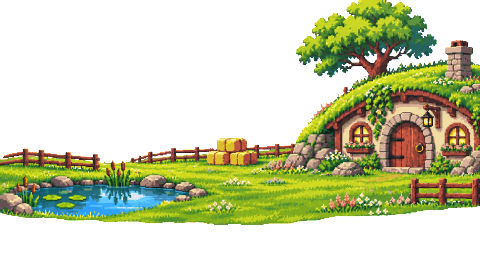
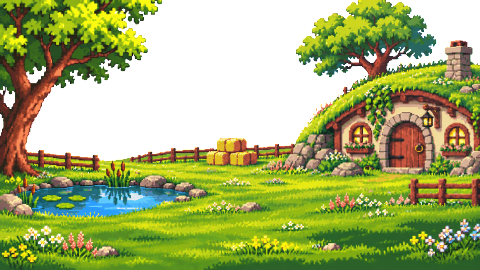
Yard: one continuous meadow behind, and seamless grass growing up in front
The Yard's cut was wrong: the big tree stands in the meadow behind the
pond, but sat in the near layer and slid over it, and the middle meadow's
edge showed over the far one. Now the far layer is just the sky,
mountains and distant hills, the middle layer is the whole meadow as one
piece with the tree, fences, pond, hay and house on it, and there is no
near layer. Instead a seamless strip of grass and wildflowers (its right
end joined under its left end so copies meet without a seam) is drawn in
front of everything along the bottom of the screen, covering the stone
ground band with its tallest tufts just reaching the animals' feet.

diff --git a/index.html b/index.html
@@ -61,13 +61,13 @@ const VFX_SPR = ['star', 'fireball', 'flame', 'spark', 'meteor', 'sun', 'moon', 
 const BG_LAYERED = ['hall', 'cave', 'crypt', 'forge', 'hollow', 'sanctum', 'thornwood', 'glade', 'lake', 'camp', 'boss', 'yard'];
 // how far each layer travels (far, mid, near): the near layer moves like the old single backdrop; a background whose middle pieces
 // sit close to its back wall (banners on a wall) gives them a number close to the far one, so they don't slide across it
-const BG_DEPTH = { default: [0.35, 0.65, 1], hall: [0.35, 0.42, 1], crypt: [0.35, 0.55, 1], boss: [0.35, 0.45, 1] };
+const BG_DEPTH = { default: [0.35, 0.65, 1], hall: [0.35, 0.42, 1], crypt: [0.35, 0.55, 1], boss: [0.35, 0.45, 1], yard: [0.35, 1, 1] };   // the Yard: sky and hills behind, the whole meadow as one piece
 const ART_FILES = {
   vfx: VFX_SPR,
   items: ['pet_fox', 'pet_owl', 'pet_ferret', 'pet_boar', 'pet_toad', 'shortbow', 'greatsword', 'warhammer', 'towershield', 'torc', 'banner', 'breastplate', 'bgauntlet', 'giantbelt', 'lionheart', 'dragonslayer', 'longbow', 'bodkin', 'twinquiver', 'frostarrows', 'blastarrows', 'hawkeye', 'bracer', 'rangercloak', 'fletching', 'starfall', 'venom', 'kris', 'shadowcloak', 'knives', 'lockpicks', 'duelist', 'shadowstep', 'bloodring', 'rmask', 'nightfang', 'barbwhip', 'alphahorn', 'collar', 'totem', 'poultice', 'falconglove', 'whistle', 'wolfcloak', 'bearclaw', 'crown', 'pet_dog', 'pet_catgray', 'pet_catcalico', 'pet_cockatiel', 'pet_dragon', 'wings', 'phoenix', 'treats', 'hourglass', 'lantern', 'dagger', 'arrows', 'sword', 'axe', 'spear', 'bow', 'gloves', 'shield', 'helm', 'chain', 'spiked', 'boots', 'potion', 'bomb', 'bread', 'heart', 'whetstone', 'charm', 'fang', 'clover', 'spikes', 'chewbone', 'clawfile', 'vest', 'blanket', 'incubator', 'harness', 'bell', 'huntmark', 'squeaky', 'catnip', 'cuttlebone', 'heatrock', 'bogmoss', 'truffle', 'nightshade', 'hexcharm', 'healbell', 'dragonheart', 'alphafang', 'salve', 'herb', 'salts', 'brew', 'smoke', 'net', 'egg_cockatiel', 'egg_owl', 'egg_toad', 'egg_dragon', 'egg_elder', 'horseshoe', 'glownectar', 'embertotem', 'boneflute', 'serpenttorc', 'antlercrown', 'saddlebag', 'buckler', 'windchimes', 'huntinghorn', 'emberring', 'wishbone', 'egg_phoenix', 'egg_salamander', 'egg_tortoise', 'egg_moth', 'egg_fairydragon', 'egg_viper', 'egg_sunday'],
   chars: ['hero', 'slime', 'bat', 'skeleton', 'archer', 'ghost', 'brute', 'boss'].flatMap(n => [n + '_idle', n + '_attack']),
   props: ['friend_post', 'hub_banner_warrior', 'hub_banner_archer', 'hub_banner_rogue', 'hub_banner_beastmaster', 'hub_mirror', 'hub_board', 'hub_petbed', 'barrier', 'cage', 'cage_open', 'plant_bloodberry', 'plant_ember', 'plant_stone', 'plant_swift', 'plant_catnip', 'plant_mandrake', 'chest_secret', 'spikes', 'crumble', 'vent', 'chest_gold', 'chest_closed', 'chest_open', 'campfire', 'torch', 'gate', 'ledge', 'tombstone', 'arrow', 'mushrooms', 'candle', 'bones', 'chain', 'thorns', 'shroom', 'vine', 'door_wardrobe', 'door_records', 'door_den', 'door_out', 'nest', 'pedestal', 'trophy_shelf', 'dye_rack', 'sparkle_0', 'sparkle_1', 'sparkle_2', 'sparkle_3', 'sanct_house'],
-  bg: ['hall', 'cave', 'crypt', 'camp', 'boss', 'forge', 'hollow', 'sanctum', 'hub', 'thornwood', 'glade', 'lake', 'yard', 'wardrobe', 'records'].concat(BG_LAYERED.flatMap(k => [k + '_far', k + '_mid', k + '_near'])),
+  bg: ['hall', 'cave', 'crypt', 'camp', 'boss', 'forge', 'hollow', 'sanctum', 'hub', 'thornwood', 'glade', 'lake', 'yard', 'wardrobe', 'records'].concat(BG_LAYERED.flatMap(k => [k + '_far', k + '_mid', k + '_near'])).concat(['yard_grass']),
   anim: Object.keys(window.ANIMS || {}).concat(window.LOOKS ? window.LOOKS.masks.map(n => n + '_skin').concat(Object.entries(window.LOOKS.hair).flatMap(([h, v]) => Object.keys(v).map(w => 'hair_' + h + '_' + w))) : []),   // + skin masks and hair pieces (Wardrobe)
   ui: ['panel_leather', 'panel_parch', 'btn', 'btn_hover', 'btn_off', 'slot', 'banner', 'seal'],
   tiles: ['hall', 'cave', 'crypt', 'boss', 'camp', 'forge', 'hollow', 'sanctum', 'thornwood', 'glade', 'lake'].flatMap(t => [t + '_block', t + '_top', t + '_ledge']),
@@ -3114,6 +3114,13 @@ function drawParallax(R) {
     });
   } else ctx.drawImage(img, 0, 0, img.width, sh, Math.round(-(bw - W) * fx), Math.round(-(bh - H) * fy), bw, bh);
   ctx.fillStyle = `rgba(0,0,0,${R.theme.dim ?? 0.22})`; ctx.fillRect(0, 0, W, H); // push the backdrop back so the terrain reads
+}
+// the Yard's foreground grass: one seamless strip, repeated, drawn in front of everything and rising from the bottom of
+// the screen; it slides a little faster than the ground, as grass right in front of you would
+function drawFrontGrass(camX) {
+  const img = art('bg/yard_grass'); if (!img) return;
+  const s = 2, w = img.width * s, h = img.height * s, off = ((camX * 1.15) % w + w) % w;   // 2x: it fills the ground band, the tallest tufts just reach the feet
+  for (let x = -off; x < W; x += w) ctx.drawImage(img, Math.round(x), H - h, w, h);
 }
 function drawTerrain(R) {
   const sx = clamp(Math.floor(G.cam.x), 0, Math.max(0, R.wpx - W)), sy = clamp(Math.floor(G.cam.y), 0, Math.max(0, R.hpx - H));
@@ -7299,6 +7306,7 @@ function draw() {
   if (G.mode === 'encounter') drawEncounterAlert();
   if (G.hub) drawHubBubble();
   ctx.restore();
+  if (G.hub && G.room.bgKey === 'yard') drawFrontGrass(camX);
   drawVignette();
   if (G.mode === 'pack') { drawPack(); drawHUDMessageOnly(); return; }
   if (G.hub) drawHubHUD(); else drawHUD();

diff --git a/tools/bglayers.py b/tools/bglayers.py
@@ -14,8 +14,9 @@ ROOT = os.path.dirname(os.path.dirname(os.path.abspath(__file__)))
 RAW = os.path.join(ROOT, 'assets_raw', 'bg_layers', 'raw')
 OUT = os.path.join(ROOT, 'assets', 'bg')
 CROP = {'hall': 236, 'cave': 236, 'crypt': 236, 'camp': 236, 'boss': 236}   # BG_CROP in index.html: rows the game shows
-DEPTH = {'default': [0.35, 0.65, 1.0], 'hall': [0.35, 0.42, 1.0], 'crypt': [0.35, 0.55, 1.0], 'boss': [0.35, 0.45, 1.0]}   # BG_DEPTH in index.html
+DEPTH = {'default': [0.35, 0.65, 1.0], 'hall': [0.35, 0.42, 1.0], 'crypt': [0.35, 0.55, 1.0], 'boss': [0.35, 0.45, 1.0], 'yard': [0.35, 1.0, 1.0]}   # BG_DEPTH in index.html
 HAZE = {'thornwood': 0.25}   # middle layers that sit in fog: blended this much toward the far layer's average colour
+NO_NEAR = {'yard'}   # backgrounds whose near layer is empty (the Yard's foreground is the seamless grass strip, bg/yard_grass)
 MIST = {'crypt': 236}   # near layers whose pieces above this row are mist: made soft and see-through (the ledge below stays solid)
 GREEN_KEY = {'crypt', 'sanctum', 'glade', 'boss'}   # purple / pink art: these layers are made on flat green #00FF00 instead of magenta
 
@@ -119,6 +120,8 @@ def build(key):
     orig = Image.open(os.path.join(OUT, key + '.png')).convert('RGB'); size = orig.size
     layers = []
     for n in ('far', 'mid', 'near'):
+        if n == 'near' and key in NO_NEAR:
+            im = Image.new('RGBA', size); im.save(os.path.join(OUT, f'{key}_{n}.png')); layers.append(im); continue
         src = Image.open(os.path.join(RAW, f'{key}_{n}.png'))
         im = src.convert('RGB').resize(size, Image.BOX).convert('RGBA') if n == 'far' else despeckle(shrink(keyed(src, key in GREEN_KEY), size))
         if n == 'mid' and key in HAZE:   # a little of the fog's colour, as distance looks in the original
@@ -168,6 +171,31 @@ def preview(key, orig, layers):
     p = os.path.join(ROOT, 'assets_raw', 'bg_layers', f'preview_{key}.png'); out.save(p); print('preview', p)
 
 
+def grass_strip(width=360, overlap=40):
+    """The Yard's foreground grass (raw/yard_grass.png, grass on magenta) -> assets/bg/yard_grass.png: keyed, scaled so its
+    pixels match the backgrounds, cropped to the grass, and made seamless: the right end is laid under the left end, so the
+    grass of both joins and copies placed side by side never show a seam."""
+    src = keyed(Image.open(os.path.join(RAW, 'yard_grass.png')))
+    h = round(src.height * width / src.width)
+    im = despeckle(shrink(src, (width, h)))
+    bb = im.getbbox(); im = im.crop((0, bb[1], width, bb[3]))
+    W, H = im.size; o = overlap
+    tile = Image.new('RGBA', (W - o, H))
+    tile.alpha_composite(im.crop((W - o, 0, W, H)), (0, 0))        # the right end first...
+    tile.alpha_composite(im.crop((0, 0, W - o, H)), (0, 0))        # ...the left part over it
+    # fill any see-through gaps in the solid bottom rows from the pixel above, so the base is one unbroken band of grass
+    px = tile.load()
+    for y in range(H - 4, H):
+        for x in range(W - o):
+            if px[x, y][3] < 255: px[x, y] = px[x, y - 1][:3] + (255,)
+    tile.save(os.path.join(OUT, 'yard_grass.png')); print('grass strip', tile.size)
+    # preview: three copies side by side over the yard, to check the seam
+    prev = Image.new('RGBA', (tile.width * 3, tile.height + 20), (60, 120, 60, 255))
+    for i in range(3): prev.alpha_composite(tile, (i * tile.width, 20))
+    prev.resize((prev.width * 2, prev.height * 2), Image.NEAREST).save(os.path.join(ROOT, 'assets_raw', 'bg_layers', 'preview_grass.png'))
+
+
 if __name__ == '__main__':
+    if sys.argv[1] == '--grass': grass_strip(); sys.exit()
     key = sys.argv[1]; o, L = build(key)
     if '--preview' in sys.argv: preview(key, o, L)

diff --git a/CLAUDE.md b/CLAUDE.md
@@ -135,7 +135,7 @@ loop with `window.__U = update; window.update = () => {}` and step `__U(1/60)` +
 background tabs throttle animation frames).
 
 - **Releases / browser cache:** `BUILD` (top of the game script) and the `?v=` on the anims.js / looks.js script tags must match; bump both whenever art or data files change. GitHub Pages lets browsers cache files for ~10 minutes, and without the bump a new page can run with an old cached anims.js (e.g. no outfits).
-- **Depth backgrounds:** `BG_LAYERED` lists backgrounds with `assets/bg/<key>_far|_mid|_near.png` (480x270; far complete, mid/near transparent around their pieces); `drawParallax` draws them at `BG_DEPTH[key]` (default 0.35 / 0.65 / 1 of the old backdrop's travel), lined up like the original at the middle of the level and at the bottom. Made by `tools/bglayers.py <key> --preview` from three ChatGPT edits in `assets_raw/bg_layers/raw/` (far = complete inpaint, mid/near on flat magenta, or green for purple/red art: `GREEN_KEY`); it despills the key into soft alpha, has `HAZE` (fog colour on a mid layer) and `MIST` (soft see-through mist on a near layer), and the preview shows the stack and both level ends to check the cut. Keep pieces that touch (banners on a wall, a tent on its floor, reflections and the water) in the same layer, or give the middle layer a depth near the far one.
+- **Depth backgrounds:** `BG_LAYERED` lists backgrounds with `assets/bg/<key>_far|_mid|_near.png` (480x270; far complete, mid/near transparent around their pieces); `drawParallax` draws them at `BG_DEPTH[key]` (default 0.35 / 0.65 / 1 of the old backdrop's travel), lined up like the original at the middle of the level and at the bottom. Made by `tools/bglayers.py <key> --preview` from three ChatGPT edits in `assets_raw/bg_layers/raw/` (far = complete inpaint, mid/near on flat magenta, or green for purple/red art: `GREEN_KEY`); it despills the key into soft alpha, has `HAZE` (fog colour on a mid layer) and `MIST` (soft see-through mist on a near layer), and the preview shows the stack and both level ends to check the cut. The Yard has no near layer (`NO_NEAR`): its middle layer is the whole meadow as one piece, and `drawFrontGrass` draws the seamless strip `bg/yard_grass` (made by `tools/bglayers.py --grass`) at 2x in front of everything, rising from the bottom of the screen. Keep pieces that touch (banners on a wall, a tent on its floor, reflections and the water) in the same layer, or give the middle layer a depth near the far one.
 - **Giving animals up:** `GIVE` state on the Sanctuary team board (Your Pets, `G.panel === 'team'` only, `canGive()`): `giveLock` (team / Den pair), `donateXp` (12 + 25% of the XP it took to raise it), `giveDo` removes from `HERD`, shares Donate XP across the team, saves, respawns the Yard pets; `drawGiveConfirm` (a second step for shinies).
 - **Wind-up moves (Rhino Charge / Stampede):** an ability with `windup: 1` first only sets the `charging` status (`{ t, v: index in u.abil }`), so friend battles sync it like any status; on the unit's next turn it goes off by itself (`windingAb(u)`: updateBattle for your pets, the foe AI, and pvpHostFoeStep for a friend's). A stun calls `breakCharge`. Pilfer never steals it. Talent keys: `bleedDR` (less damage from Bleeding attackers), `windDR` (while Charging), `bleedAmp` and the ability's `bleedBonus` (vs Bleeding foes).
 - **Shiny art:** a species can have its own shiny sheet `<anim>_shiny` (the Rhino); `petSheet(sheet, it)` picks it at every pet draw and `petFilter` then skips the colour shift. Make it as a ChatGPT recolour-edit of the normal sheet, and give animate.py `match` so both are the same size.

diff --git a/README.md b/README.md
@@ -45,7 +45,7 @@ Open `index.html` in a browser (double-click works). No install or build step ne
 - **The Sunday:** a Sun conure x Jenday parrot that lives in the Stone Hall and Mossy Cave (floors 1-10) and leaves an egg. A Support that gives the team every kind of buff: Strength, Luck, Shields, Guard, Regen, Evade and Undying, and cures curses. When it stands still it nibbles a walnut held in its foot; its shiny is sky-blue, green and pink, and sparkles like every other shiny.
 - **The Rhino:** a white rhino that roams the Glimmer Glade and Moonlit Lake (floors 21-30) and leaves a calf. A Guardian: **Stomp**, **Gore** (makes the foe Bleed) and **Charge**, which takes two turns: it lowers its horn (Charging), then on its next turn hits every foe. Stunning it while it charges breaks the charge. Talent trees: **Thick Hide** (takes less damage from Bleeding foes), **Stampede** (Charge damage, less damage taken while Charging) and **Bloodhorn** (extra bleed damage). Its shiny is a spirit-blue rhino with gold horns, drawn as its own sheet.
 - **Release / Donate:** in the Sanctuary, the team board's **Your Pets** screen has a Release / Donate button. Click any number of animals to pick them, then **Release** them back to the wild (nothing in return) or **Donate** them to a good home (your team pets share experience: a quarter of what it took to raise each one). Pets in your team and the pair in the Breeding Den can't be picked, and giving up a shiny asks twice.
-- **Depth backgrounds:** every dungeon area, the camp, the boss chamber and the Sanctuary Yard is drawn in three layers (far, middle, near) that slide at different speeds as you move, so the backdrop has real depth. They line up exactly like the original picture at the middle of the level.
+- **Depth backgrounds:** every dungeon area, the camp, the boss chamber and the Sanctuary Yard is drawn in three layers (far, middle, near) that slide at different speeds as you move, so the backdrop has real depth. They line up exactly like the original picture at the middle of the level. In the Yard, the sky and hills sit behind one continuous meadow, and a seamless strip of grass and wildflowers grows up from the bottom of the screen in front of everything.
 - **Shinies:** about 1 in 50 offspring is a **shiny**, a rare recolour with a sparkle.
 - **Breeding Den:** pair a male and a female of one species; after your next run their egg hatches. The baby's stats are its parents' average plus up to 10, so breeding your best animals makes even better ones. Shiny chance: 90% with two shiny parents, 40% with one, 2% with none.
 - **Pick your starting act:** once a run has reached floor 11 (or 21), the Sanctuary gate asks where to go: start from the top, or jump straight into Act II or Act III with your team (with just your class kit in the backpack).
